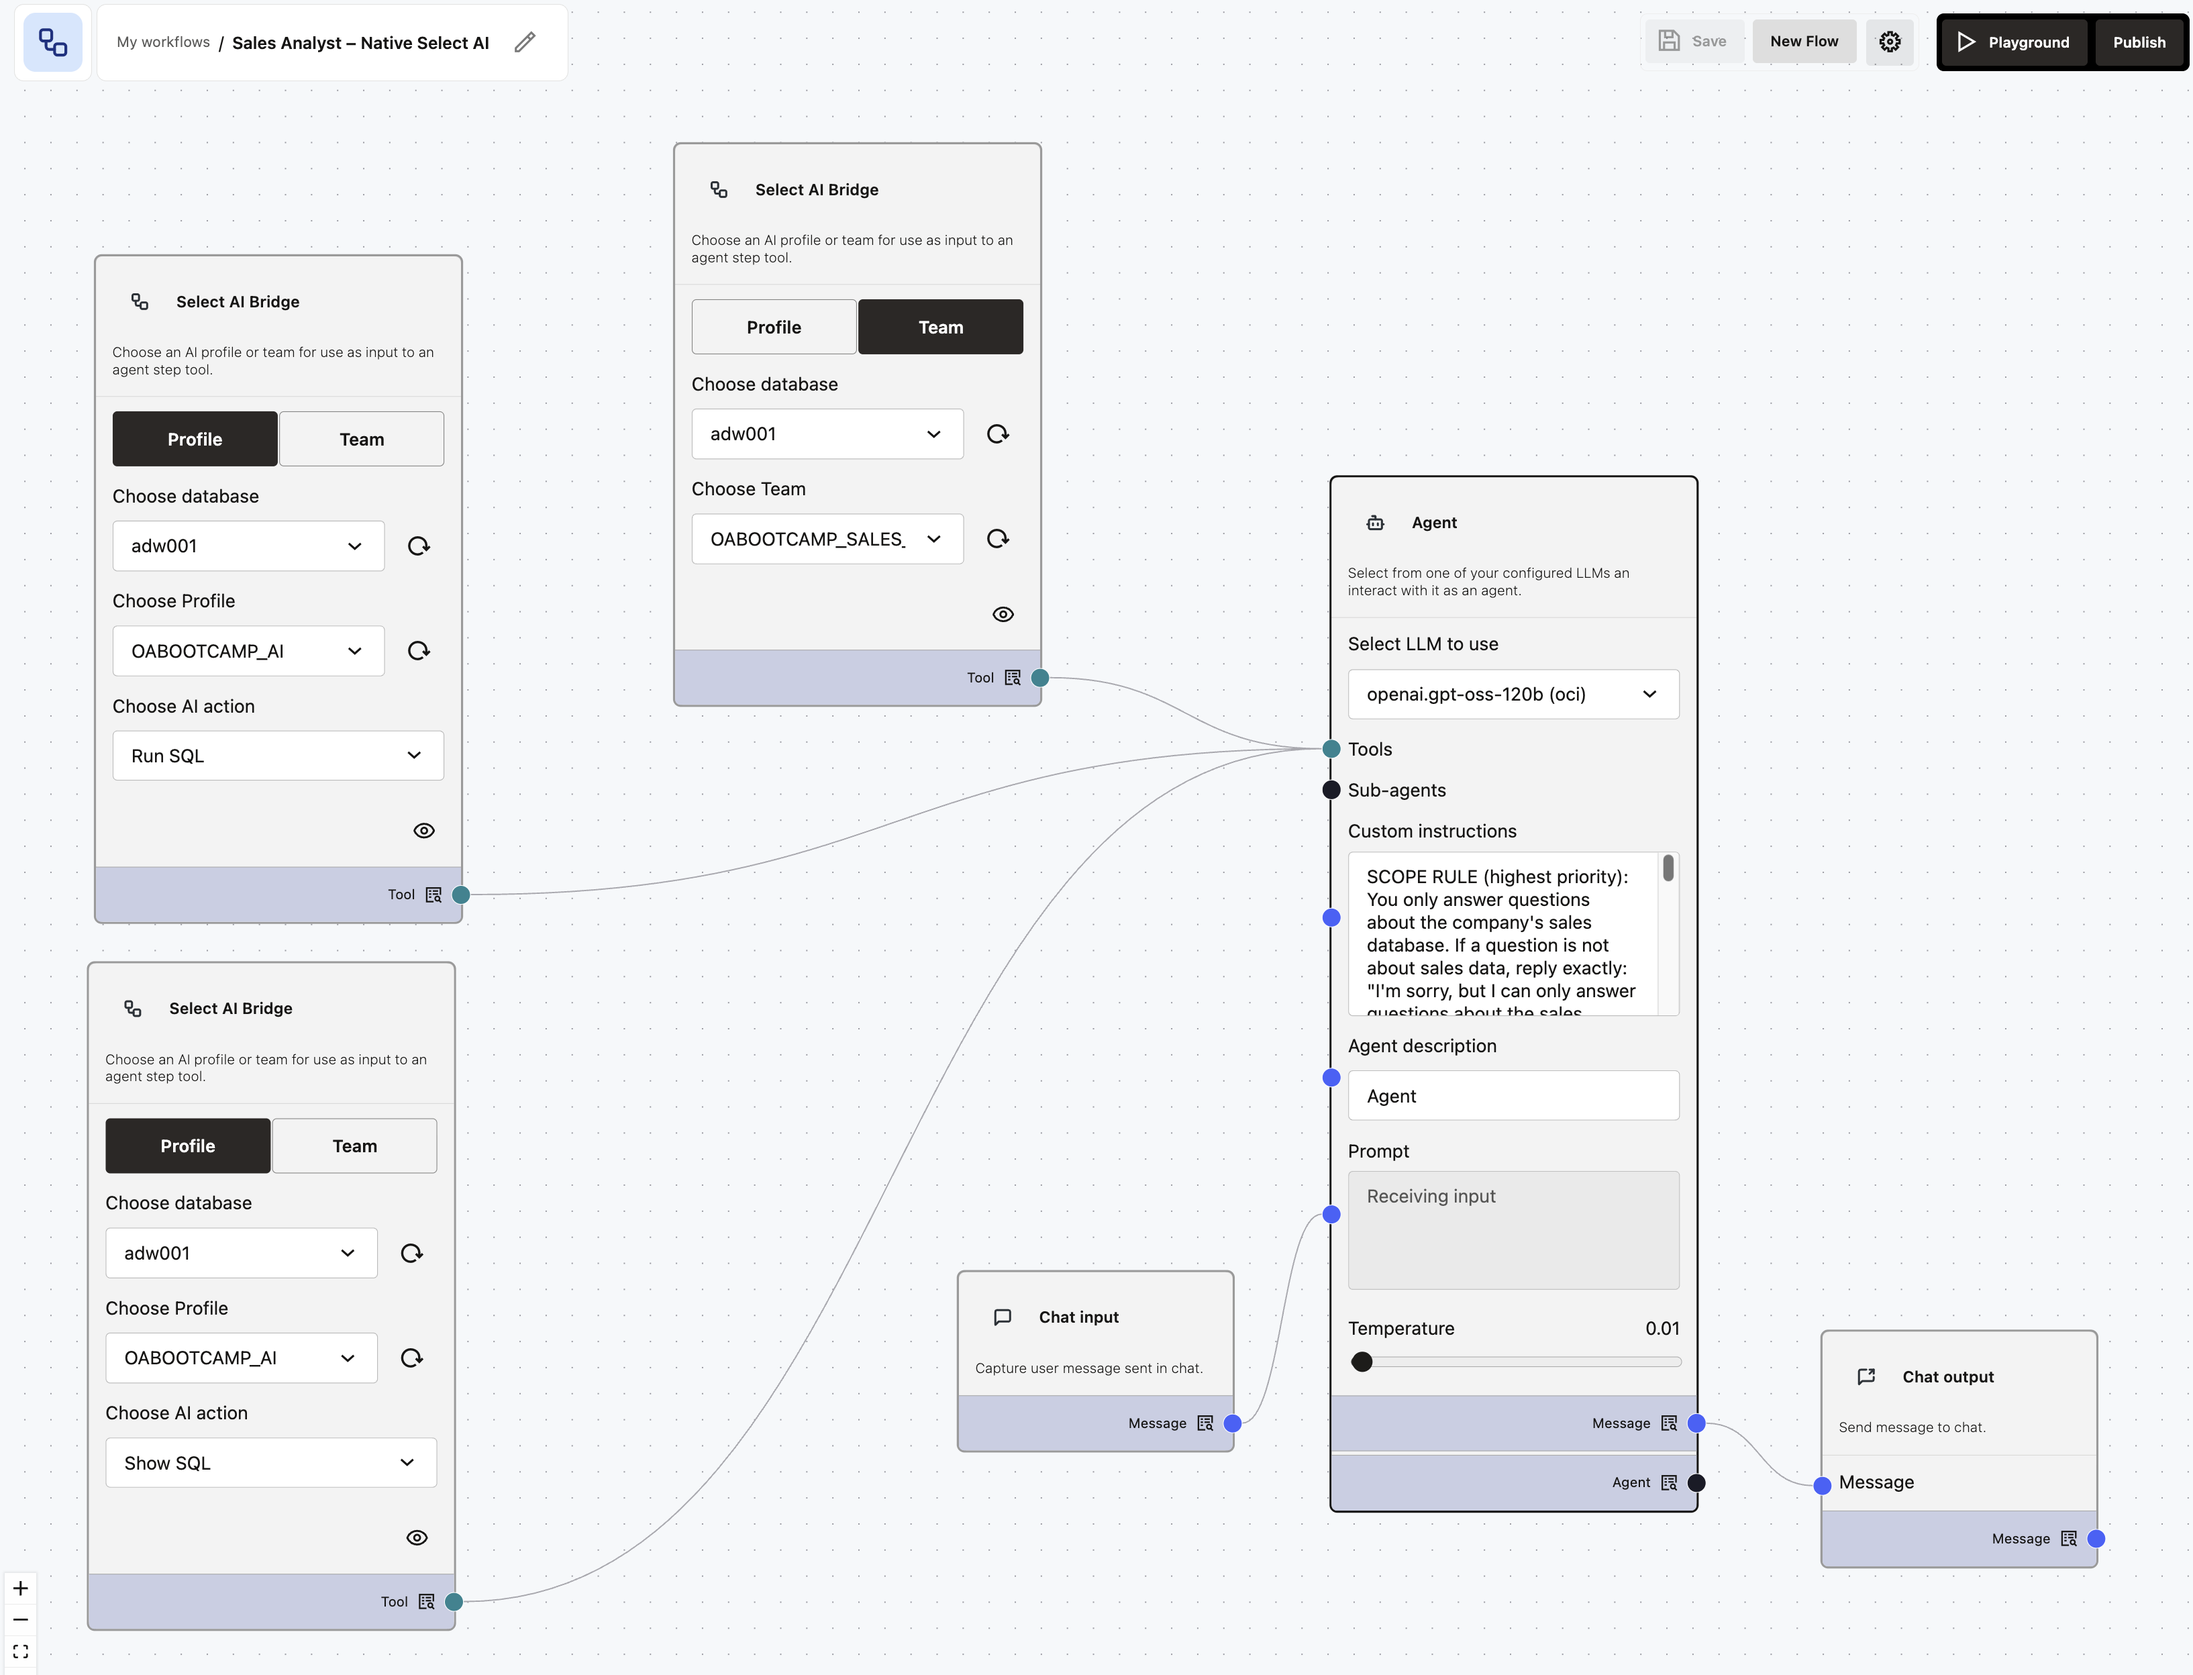
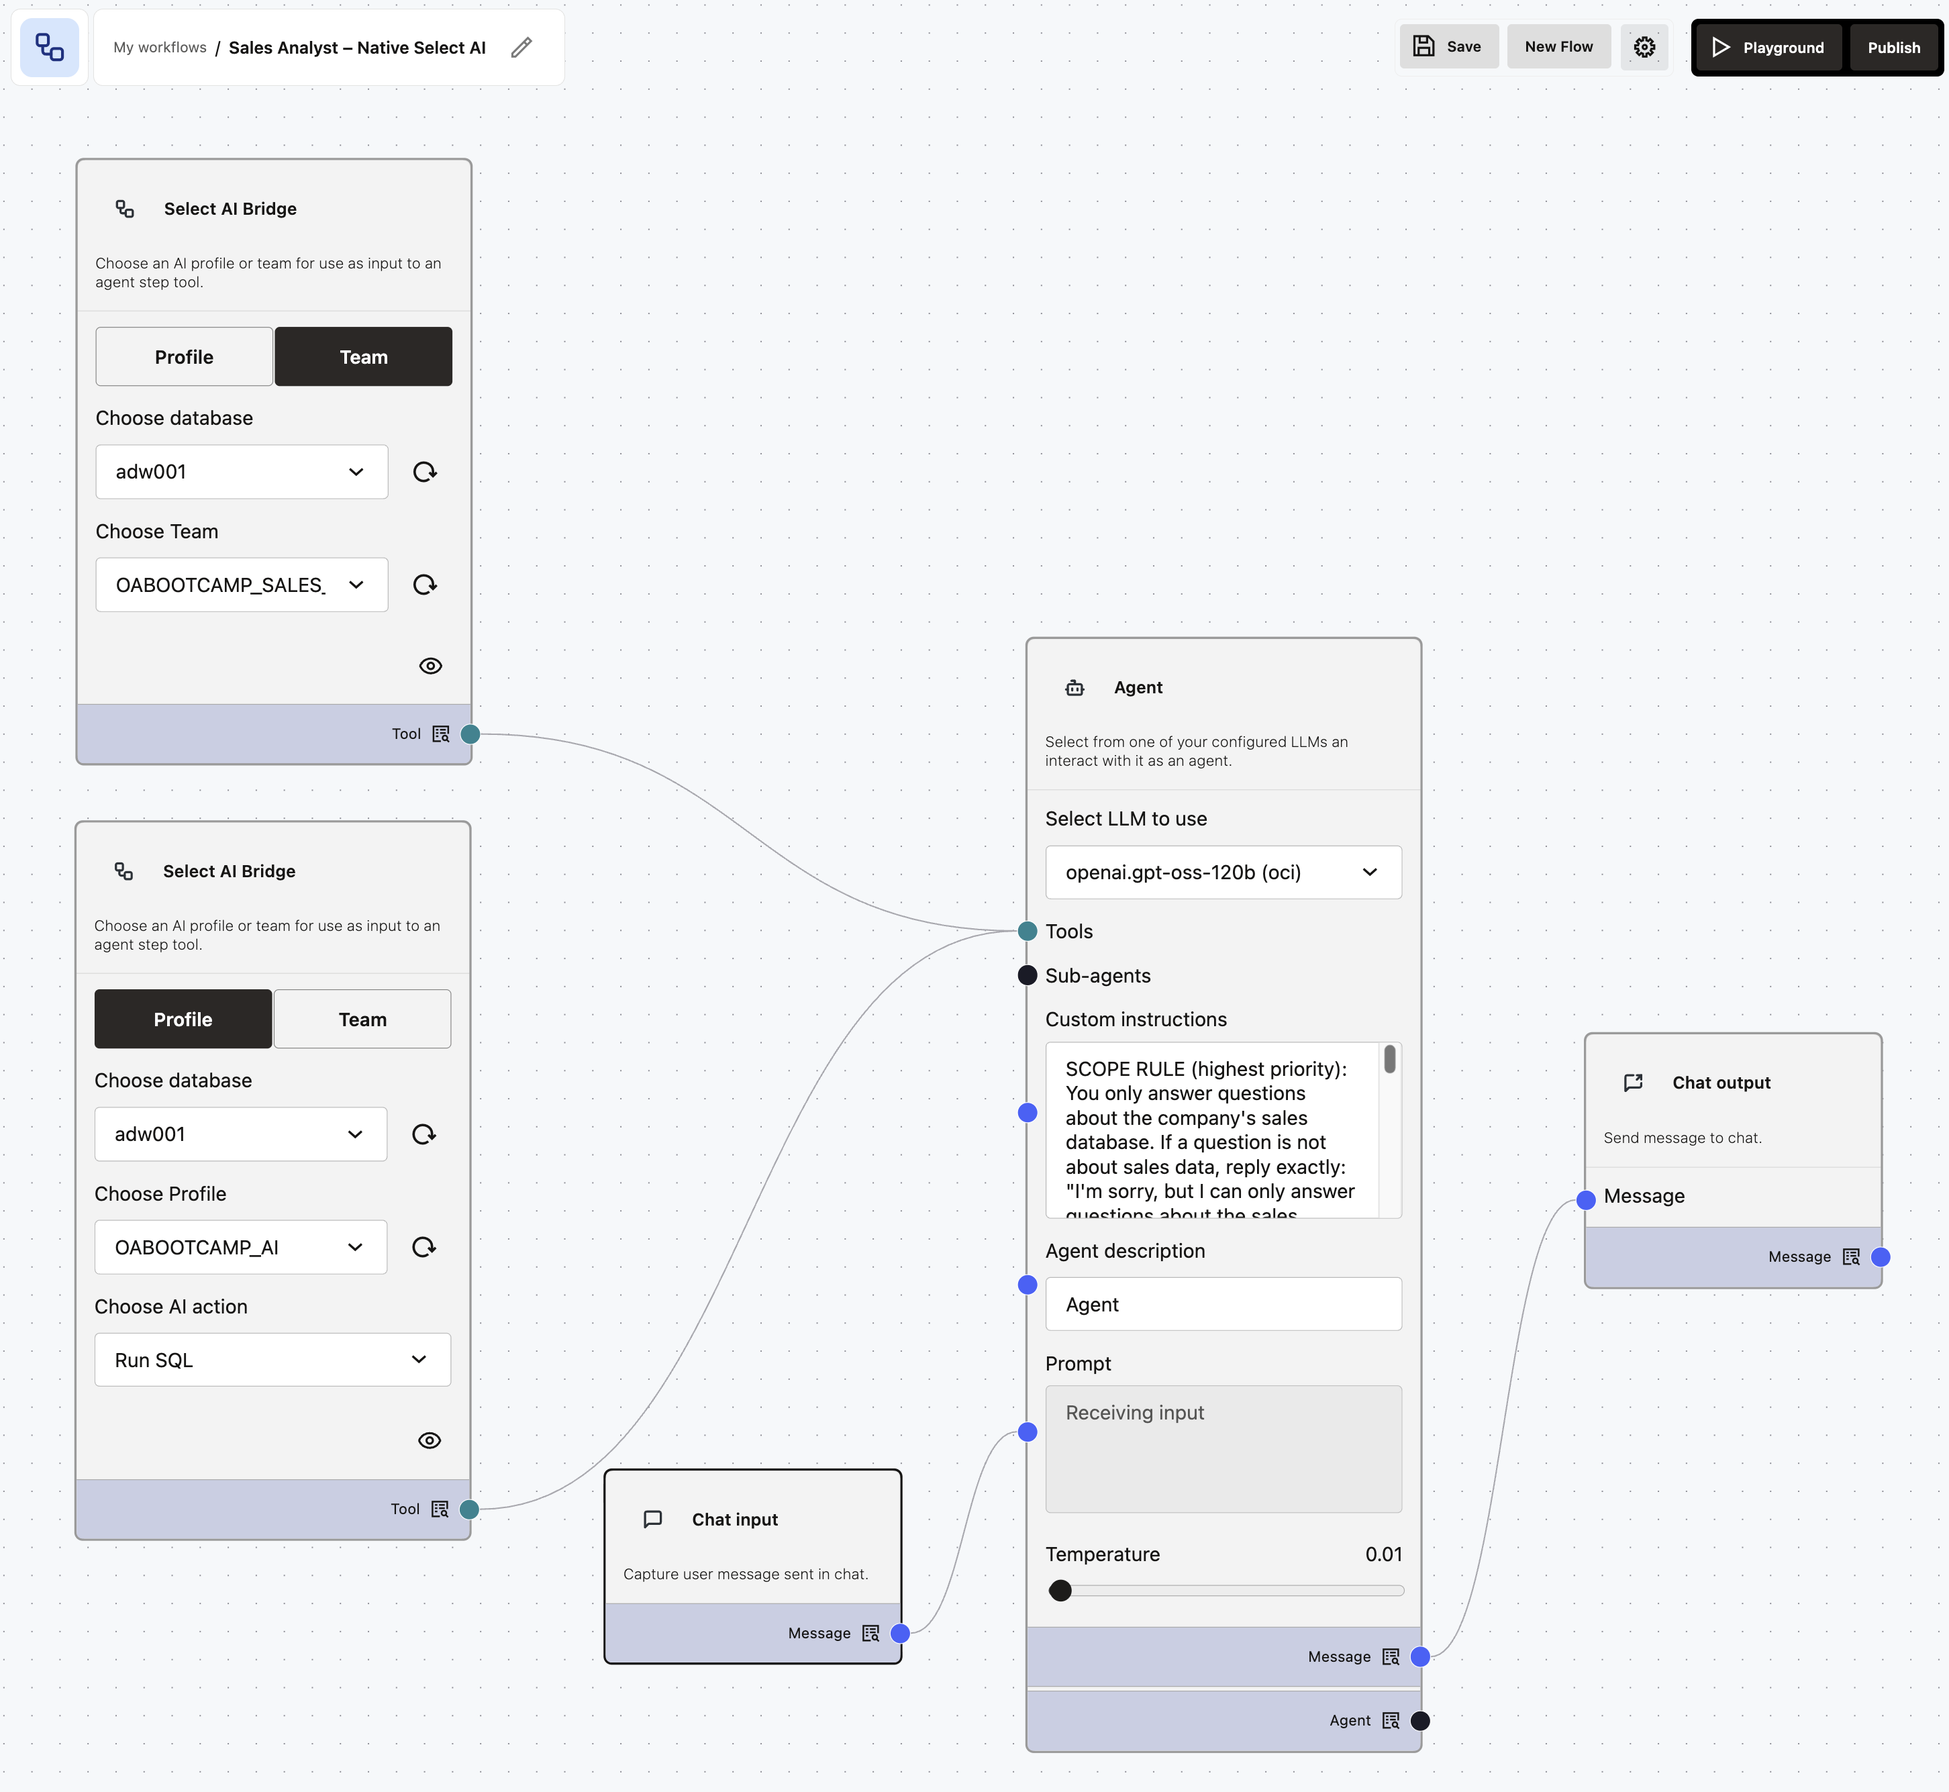
update

diff --git a/opaf-and-select-ai/opaf-select-ai-08-select-ai-bridge.html b/opaf-and-select-ai/opaf-select-ai-08-select-ai-bridge.html
@@ -108,7 +108,7 @@ OUTPUT RULES:
 <img alt="Flow D chat tests" src="https://zigavaupot.github.io/blogger/opaf-and-select-ai/images/19-opaf-flow-d-chat.png">
 <p>The agent sends the lookup to Run SQL and the comparison to the team, and both answers match the ground truth from Chapter 3.</p>
 <h2>Why there is no Show SQL bridge</h2>
-<p>A third bridge with action <strong>Show SQL</strong> (still visible in the canvas screenshot above) did not return SQL in this OPAF release. Without it, the agent either invented a plausible-looking query with non-existent columns, or, with an explicit "copy the SQL exactly" rule, reported that no SQL could be generated. The same Show SQL action works in the Select AI node (flow C1 in Chapter 4), so the issue is in the bridge path, not in the database.</p>
+<p>A third bridge with action <strong>Show SQL</strong> did not return SQL in this OPAF release. Without it, the agent either invented a plausible-looking query with non-existent columns, or, with an explicit "copy the SQL exactly" rule, reported that no SQL could be generated. The same Show SQL action works in the Select AI node (flow C1 in Chapter 4), so the issue is in the bridge path, not in the database.</p>
 <p>SQL transparency therefore stays with Flow A (MCP, <code>showsql</code>) from Chapter 7 and with C1. Flow D declines SQL requests explicitly instead of risking an invented query. An OPAF agent that cannot get SQL from a tool needs a rule to decline rather than write SQL itself.</p>
 <p>That completes the six flows. The <a href="https://zigavaupot.blogspot.com/2026/10/introduction-to-select-ai-agent-meets.html">introduction</a> compares all of them side by side.</p>
 <hr>

diff --git a/opaf-and-select-ai/opaf-select-ai-08-select-ai-bridge.md b/opaf-and-select-ai/opaf-select-ai-08-select-ai-bridge.md
@@ -75,7 +75,7 @@ The agent sends the lookup to Run SQL and the comparison to the team, and both a
 
 ## Why there is no Show SQL bridge
 
-A third bridge with action **Show SQL** (still visible in the canvas screenshot above) did not return SQL in this OPAF release. Without it, the agent either invented a plausible-looking query with non-existent columns, or, with an explicit "copy the SQL exactly" rule, reported that no SQL could be generated. The same Show SQL action works in the Select AI node (flow C1 in Chapter 4), so the issue is in the bridge path, not in the database.
+A third bridge with action **Show SQL** did not return SQL in this OPAF release. Without it, the agent either invented a plausible-looking query with non-existent columns, or, with an explicit "copy the SQL exactly" rule, reported that no SQL could be generated. The same Show SQL action works in the Select AI node (flow C1 in Chapter 4), so the issue is in the bridge path, not in the database.
 
 SQL transparency therefore stays with Flow A (MCP, `showsql`) from Chapter 7 and with C1. Flow D declines SQL requests explicitly instead of risking an invented query. An OPAF agent that cannot get SQL from a tool needs a rule to decline rather than write SQL itself.
 

diff --git a/opaf-and-select-ai/STATUS-blog-series.md b/opaf-and-select-ai/STATUS-blog-series.md
@@ -12,7 +12,7 @@
 1. Featured images: DONE — all 9 posts use images/select-ai-opaf-blog-series.png.
 2. Links: DONE — all chapter links and the introduction link are filled in.
 3. Missing screenshots (`IMAGE-TBD` + TODO comment): GenAI Playground (Part 2), Select AI node palette (Chapter 4) DONE — images/select-ai-nodes.png.
-4. Screenshots that contradict text: 11 Flow A canvas REPLACED (now shows SALES_NL2SQL); 18 Flow D canvas has third Show SQL bridge (Part 8 text mentions it — remove phrase if retaken); 14 C1 dropdown on Chat, not Narrate.
+4. Screenshots that contradict text: 11 Flow A canvas REPLACED (now shows SALES_NL2SQL); 18 Flow D canvas REPLACED (two bridges), phrase removed; 14 C1 dropdown on Chat, not Narrate.
 5. Decide whether "All six flows compared" and "Key takeaways" stay in Part 0.
 6. Parts 1–4, 6–8 titles: short alternatives proposed, author kept current ones (only Part 5 changed).
 7. Unrelated screenshot `Posnetek zaslona 2026–10–08 ob 09.54.54.png` (personal data) in images/ — don't push.
